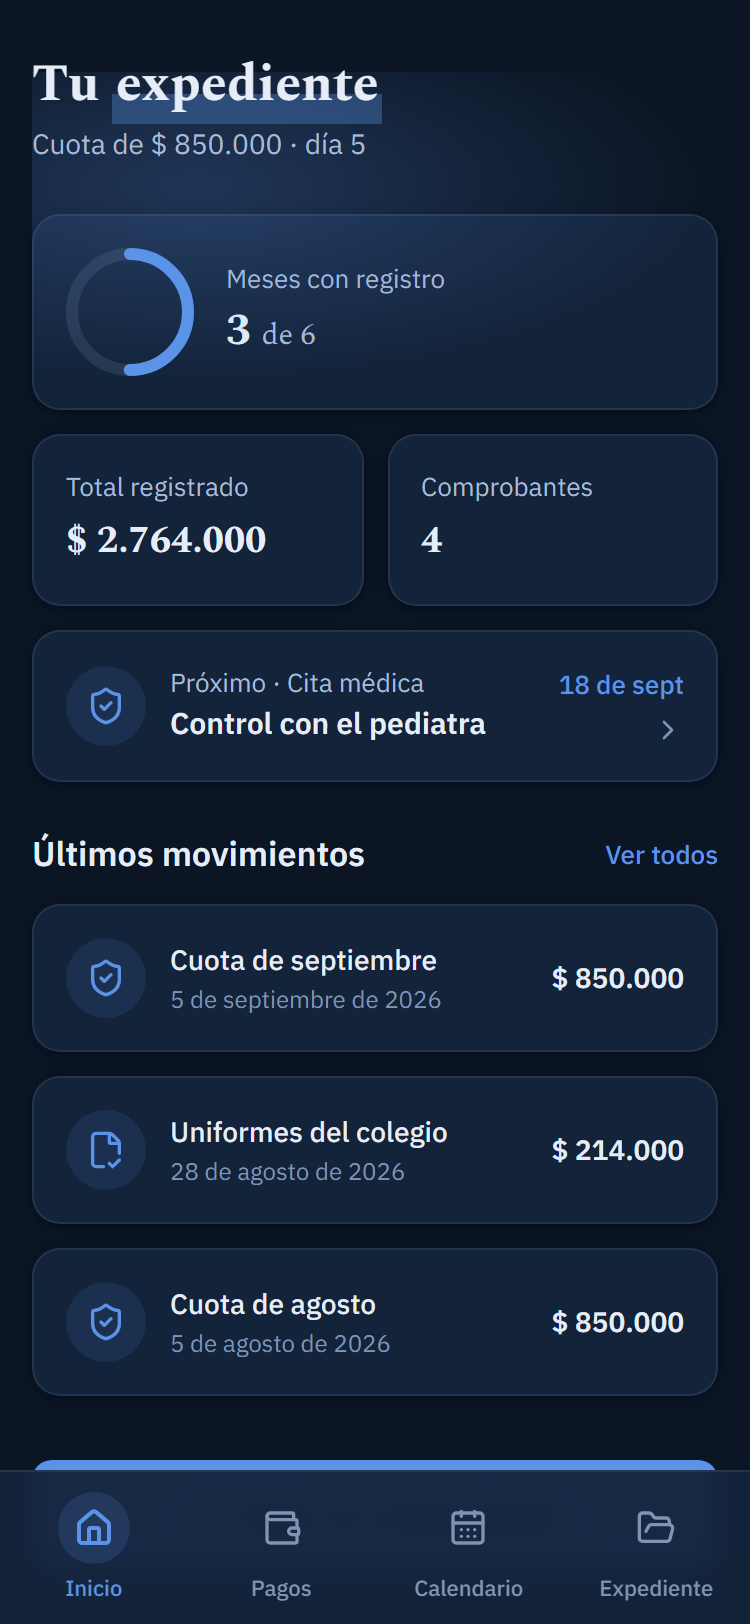
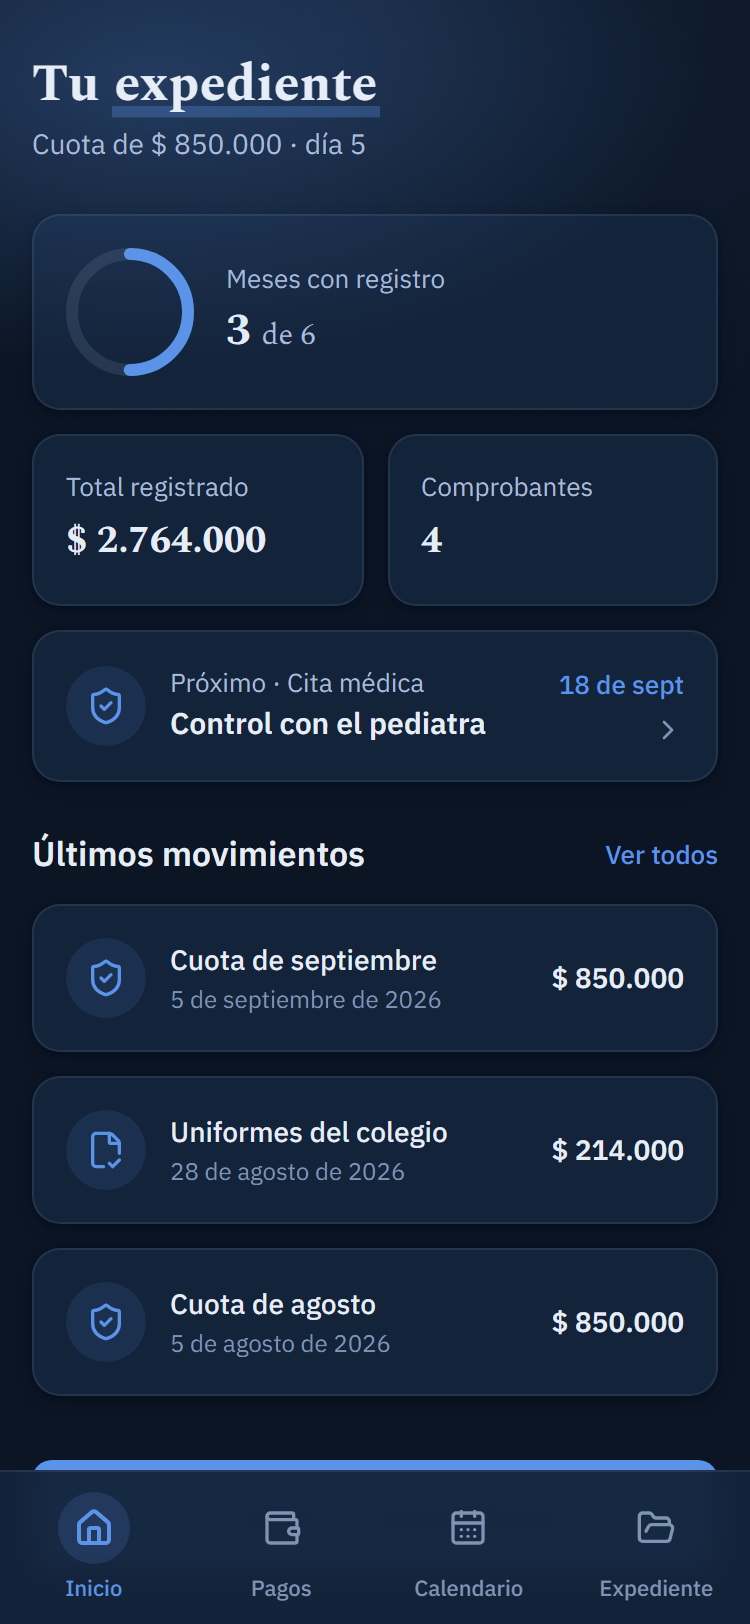
feat: fluidez de la app interna (4 mejoras pedidas por el dueno)
La app por dentro se construyo funcional y se quedo ahi: el funnel tenia
animaciones cuidadas y las cuatro pantallas del uso diario, ninguna.

1. TRANSICION ENTRE SECCIONES (app/(app)/template.tsx, nuevo)
   Al tocar el nav de abajo, una pantalla reemplazaba a la otra de golpe.
   Es lo que mas hace sentir 'cuatro paginas sueltas' en vez de una app.
   template.tsx y no layout.tsx porque Next lo remonta en cada
   navegacion, que es lo que dispara la animacion cada vez. Movimiento
   corto a proposito (6px, 280ms): en una pantalla que se abre veinte
   veces al dia, una animacion vistosa se vuelve un peaje.

2. EL MOMENTO DEL SELLO DE CONFIANZA (components/app/SelloConfianza.tsx)
   'El Sello de Confianza' es el mecanismo bautizado que se promete en la
   pagina de ventas, pero dentro de la app era invisible: subir un
   comprobante solo agregaba una fila a una lista. Ahora el sello se
   estampa con la FECHA REAL del registro y se va solo en 1.6s, sin pedir
   un toque para cerrarse. Celebracion N3 de FICHA-ARTE: sin fanfarria.
   Se dispara DESPUES de guardar, nunca antes: celebra algo que ya paso.

3. PROFUNDIDAD DE FONDO (ContenedorApp)
   El fondo era un color liso en las cuatro secciones y 'profundidad' fue
   el eje que el revisor bajo una y otra vez. Es el 3er nivel que
   FICHA-ARTE declara y que nunca existio. Al 9%: si se nota como una
   mancha, esta mal puesto.

4. CELEBRAR HITOS REALES (anillo de Inicio)
[…]

Changed region(s): [[0.0, 0.0, 0.7667, 0.1539]]

diff --git a/components/app/SelloConfianza.tsx b/components/app/SelloConfianza.tsx
@@ -1,0 +1,81 @@
+'use client';
+
+// EL MOMENTO DEL SELLO DE CONFIANZA.
+//
+// "El Sello de Confianza" es el mecanismo BAUTIZADO del producto — lo que se promete en la página
+// de ventas y en el paywall. Hasta ahora, al subir un comprobante solo aparecía una fila más en una
+// lista: el momento más importante de la app no tenía momento, y lo que se vende no se veía por
+// ningún lado dentro de la app.
+//
+// Cómo se resolvió, según la personalidad "Sereno · Sobrio · Cálido" de FICHA-ARTE (celebración
+// N3: "sello de fecha/firma, SIN fanfarria" — nada de confeti):
+//   · el sello aparece a escala 0.8 y se asienta, como algo que se estampa;
+//   · un anillo de luz se expande UNA vez desde el centro y se desvanece;
+//   · muestra la FECHA REAL con la que quedó registrado el comprobante — el sello no es un adorno,
+//     es literalmente lo que el producto promete: dejar constancia fechada;
+//   · dura ~1.6s y se va solo. No pide un toque para cerrarse: felicitar y estorbar es peor que
+//     no felicitar (regla del SO: la animación nunca bloquea la siguiente acción).
+
+import { useEffect } from 'react';
+import { motion, useReducedMotion } from 'motion/react';
+import { ShieldCheck } from 'lucide-react';
+
+const DURACION_VISIBLE_MS = 1600;
+
+export function SelloConfianza({ fecha, onTerminar }: { fecha: string; onTerminar: () => void }) {
+  const reduce = useReducedMotion();
+
+  useEffect(() => {
+    const t = setTimeout(onTerminar, reduce ? 700 : DURACION_VISIBLE_MS);
+    return () => clearTimeout(t);
+  }, [onTerminar, reduce]);
+
+  return (
+    <motion.div
+      role="status"
+      initial={{ opacity: 0 }}
+      animate={{ opacity: 1 }}
+      exit={{ opacity: 0 }}
+      transition={{ duration: 0.2 }}
+      className="fixed inset-0 z-40 flex flex-col items-center justify-center bg-[color-mix(in_oklab,var(--bg)_82%,transparent)] backdrop-blur-[2px]"
+    >
+      <div className="relative flex size-24 items-center justify-center">
+        {/* Anillo de luz que se expande una sola vez: es el "pulso" del sello al asentarse. */}
+        {!reduce && (
+          <motion.span
+            aria-hidden="true"
+            initial={{ scale: 0.7, opacity: 0.55 }}
+            animate={{ scale: 1.9, opacity: 0 }}
+            transition={{ duration: 1.1, ease: [0.22, 0.61, 0.36, 1] }}
+            className="absolute inset-0 rounded-full border-2 border-[var(--accent)]"
+          />
+        )}
+        <motion.span
+          initial={reduce ? false : { scale: 0.8, opacity: 0 }}
+          animate={{ scale: 1, opacity: 1 }}
+          transition={{ type: 'spring', stiffness: 220, damping: 18 }}
+          className="flex size-24 items-center justify-center rounded-full bg-[color-mix(in_oklab,var(--accent)_16%,transparent)]"
+        >
+          <ShieldCheck size={44} strokeWidth={2.2} color="var(--accent)" aria-hidden="true" />
+        </motion.span>
+      </div>
+
+      <motion.p
+        initial={reduce ? false : { opacity: 0, y: 6 }}
+        animate={{ opacity: 1, y: 0 }}
+        transition={{ delay: reduce ? 0 : 0.14, duration: 0.3 }}
+        className="mt-5 text-[19px] font-bold text-[var(--text-primary)] [font-family:var(--font-display)]"
+      >
+        Sello de Confianza aplicado
+      </motion.p>
+      <motion.p
+        initial={reduce ? false : { opacity: 0, y: 6 }}
+        animate={{ opacity: 1, y: 0 }}
+        transition={{ delay: reduce ? 0 : 0.2, duration: 0.3 }}
+        className="mt-1 text-[13.5px] text-[var(--text-secondary)]"
+      >
+        Queda fechado el {fecha}
+      </motion.p>
+    </motion.div>
+  );
+}

diff --git a/app/(app)/inicio/page.tsx b/app/(app)/inicio/page.tsx
@@ -280,6 +280,8 @@ function Dashboard() {
   // instante después saltaba a los datos reales: durante ese parpadeo la app le dice a la persona
   // que su expediente está vacío, que es exactamente su miedo.
   const [cargando, setCargando] = useState(true);
+  const [celebrar, setCelebrar] = useState(false);
+  const reduce = useReducedMotion();
 
   useEffect(() => {
     Promise.all([obtenerTitulo(), obtenerPagos(), obtenerEventos()])
@@ -295,6 +297,25 @@ function Dashboard() {
   const mesesConRegistro = new Set(pagos.filter((p) => p.tipo === 'cuota').map((p) => p.fecha.slice(0, 7))).size;
   const metaMeses = 6;
   const progreso = Math.round((Math.min(mesesConRegistro, metaMeses) / metaMeses) * 100);
+
+  // La celebración solo vale si el hito es NUEVO. Se guarda en el navegador cuántos meses se
+  // habían celebrado ya: si hoy hay más que la última vez, se celebra una sola vez y se actualiza
+  // la marca. Sin esta comparación, el anillo festejaría en CADA apertura de la app — y algo que
+  // celebra siempre deja de significar nada (regla del SO: solo hitos reales).
+  const CLAVE_HITO = 'coparentia_meses_celebrados';
+  const mesesLogrados = Math.min(mesesConRegistro, metaMeses);
+  useEffect(() => {
+    if (cargando || mesesLogrados === 0) return;
+    try {
+      const previos = Number(localStorage.getItem(CLAVE_HITO) ?? '0');
+      if (mesesLogrados > previos) {
+        setCelebrar(true);
+        localStorage.setItem(CLAVE_HITO, String(mesesLogrados));
+      }
+    } catch {
+      // Navegador sin almacenamiento (modo privado): simplemente no se celebra. Nunca se rompe.
+    }
+  }, [cargando, mesesLogrados]);
 
   const hoy = new Date().toISOString().slice(0, 10);
   const proximoEvento = eventos.filter((e) => e.fecha >= hoy).sort((a, b) => a.fecha.localeCompare(b.fecha))[0];
@@ -316,7 +337,21 @@ function Dashboard() {
       ) : (
         <>
           <Tarjeta className="flex items-center gap-4">
-            <MiniRing value={progreso} size={64} stroke={6} />
+            <span className="relative flex shrink-0">
+              {/* CELEBRACIÓN N2 de FICHA-ARTE ("anillo que se completa con luz suave"): un pulso
+                  que se expande UNA vez, solo cuando se acaba de sumar un mes nuevo — nunca por
+                  abrir la app. Sin esto, alcanzar un mes más no producía ninguna señal. */}
+              {celebrar && !reduce && (
+                <motion.span
+                  aria-hidden="true"
+                  initial={{ scale: 0.8, opacity: 0.6 }}
+                  animate={{ scale: 1.7, opacity: 0 }}
+                  transition={{ duration: 1.2, ease: [0.22, 0.61, 0.36, 1] }}
+                  className="absolute inset-0 rounded-full border-2 border-[var(--accent)]"
+                />
+              )}
+              <MiniRing value={progreso} size={64} stroke={6} />
+            </span>
             <div className="flex-1">
               <p className="text-[13px] text-[var(--text-secondary)]">Meses con registro</p>
               <p className="text-[22px] font-bold tabular-nums text-[var(--text-primary)] [font-family:var(--font-display)]">

diff --git a/app/(app)/pagos/page.tsx b/app/(app)/pagos/page.tsx
@@ -9,6 +9,7 @@ import { motion, AnimatePresence } from 'motion/react';
 import { Upload, ShieldCheck, FileCheck2, X, ChevronRight, Sparkles } from 'lucide-react';
 import { ContenedorApp, PageHeader, Tarjeta, IconoCirculo, BotonFlotante } from '@/components/app/ui';
 import { VisorImagen } from '@/components/app/VisorImagen';
+import { SelloConfianza } from '@/components/app/SelloConfianza';
 import {
   type Pago,
   type Titulo,
@@ -32,6 +33,7 @@ export default function Pagos() {
   const [modalAbierto, setModalAbierto] = useState(false);
   const [abriendo, setAbriendo] = useState<string | null>(null);
   const [urlVisor, setUrlVisor] = useState<string | null>(null);
+  const [selloDe, setSelloDe] = useState<string | null>(null);
 
   useEffect(() => {
     obtenerPagos().then(setPagos);
@@ -143,9 +145,16 @@ export default function Pagos() {
             onGuardado={(nuevo) => {
               setPagos((prev) => [nuevo, ...prev]);
               setModalAbierto(false);
+              // El comprobante queda guardado ANTES de mostrar el sello: la celebración refleja
+              // algo que ya pasó de verdad, nunca la promesa de algo que todavía puede fallar.
+              setSelloDe(nuevo.fecha);
             }}
           />
         )}
+      </AnimatePresence>
+
+      <AnimatePresence>
+        {selloDe && <SelloConfianza fecha={formatoFechaLarga(selloDe)} onTerminar={() => setSelloDe(null)} />}
       </AnimatePresence>
 
       <VisorImagen url={urlVisor} onCerrar={() => setUrlVisor(null)} />

diff --git a/app/(app)/template.tsx b/app/(app)/template.tsx
@@ -1,0 +1,32 @@
+'use client';
+
+// TRANSICIÓN ENTRE SECCIONES de la app interna (Inicio · Pagos · Calendario · Expediente).
+//
+// POR QUÉ EXISTE ESTE ARCHIVO: al tocar el nav de abajo, una pantalla reemplazaba a la otra de
+// golpe, sin transición — el corte seco es lo que más hace sentir "esto son cuatro páginas
+// sueltas" en vez de una sola app. El funnel sí tenía transiciones; la app interna, donde la
+// persona vive todos los días, no.
+//
+// `template.tsx` (no `layout.tsx`) porque Next vuelve a montarlo en CADA navegación: eso es
+// justamente lo que hace que la animación de entrada se dispare cada vez. Un layout se mantiene
+// montado y la animación solo correría la primera vez.
+//
+// El movimiento es corto y contenido a propósito (6px, 280ms): en una pantalla que se abre veinte
+// veces al día, una animación vistosa se vuelve un peaje. Debe leerse como continuidad, no como
+// espectáculo — coherente con "Sereno" de FICHA-ARTE.
+
+import { motion, useReducedMotion } from 'motion/react';
+import type { ReactNode } from 'react';
+
+export default function TemplateApp({ children }: { children: ReactNode }) {
+  const reduce = useReducedMotion();
+  return (
+    <motion.div
+      initial={reduce ? false : { opacity: 0, y: 6 }}
+      animate={{ opacity: 1, y: 0 }}
+      transition={{ duration: reduce ? 0 : 0.28, ease: [0.22, 0.61, 0.36, 1] }}
+    >
+      {children}
+    </motion.div>
+  );
+}

diff --git a/components/app/ui.tsx b/components/app/ui.tsx
@@ -289,7 +289,20 @@ export function BotonFlotante({ onClick, children }: { onClick: () => void; chil
 /* ── <ContenedorApp> — shell de cada pantalla: min-h-dvh, padding lateral, espacio para el nav fijo ── */
 export function ContenedorApp({ children }: { children: ReactNode }) {
   return (
-    <div className="mx-auto min-h-dvh max-w-[520px] px-4 pb-[calc(96px+env(safe-area-inset-bottom))] pt-[max(20px,env(safe-area-inset-top))]">
+    <div className="relative isolate mx-auto min-h-dvh max-w-[520px] px-4 pb-[calc(96px+env(safe-area-inset-bottom))] pt-[max(20px,env(safe-area-inset-top))]">
+      {/* LUZ AMBIENTAL — el fondo de la app interna era un color liso en las cuatro secciones, y
+          "profundidad" fue el eje que el revisor bajó una y otra vez. Esto no es decoración: es el
+          3er nivel de profundidad que FICHA-ARTE declara (base / elevado / hundido) y que aquí
+          nunca existió. Al 9% es un velo que se percibe sin que nadie sepa señalarlo — si se nota
+          como una mancha, está mal puesto. */}
+      <span
+        aria-hidden="true"
+        className="pointer-events-none absolute inset-x-0 top-0 -z-10 h-[320px]"
+        style={{
+          background:
+            'radial-gradient(ellipse 130% 100% at 50% 0%, color-mix(in oklab, var(--accent) 9%, transparent) 0%, transparent 72%)',
+        }}
+      />
       {children}
     </div>
   );
